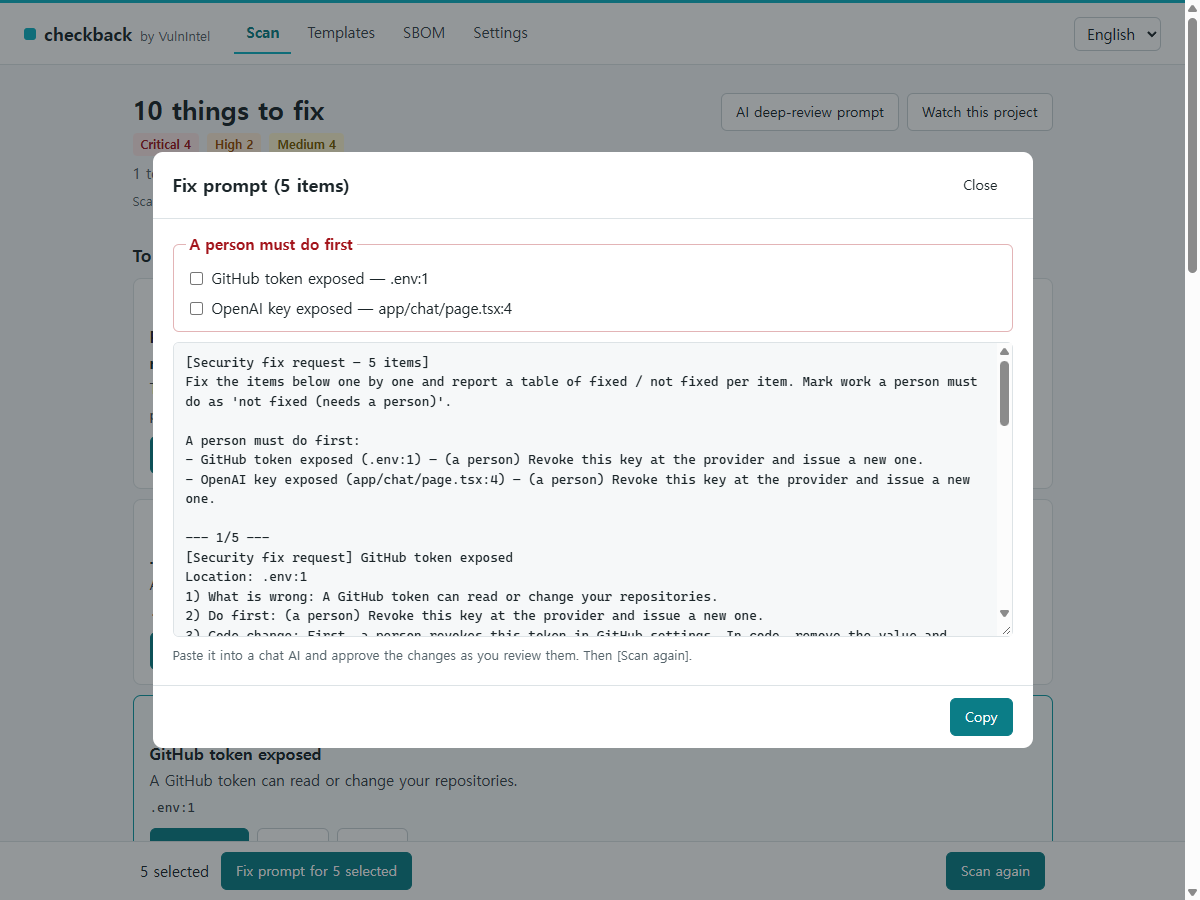
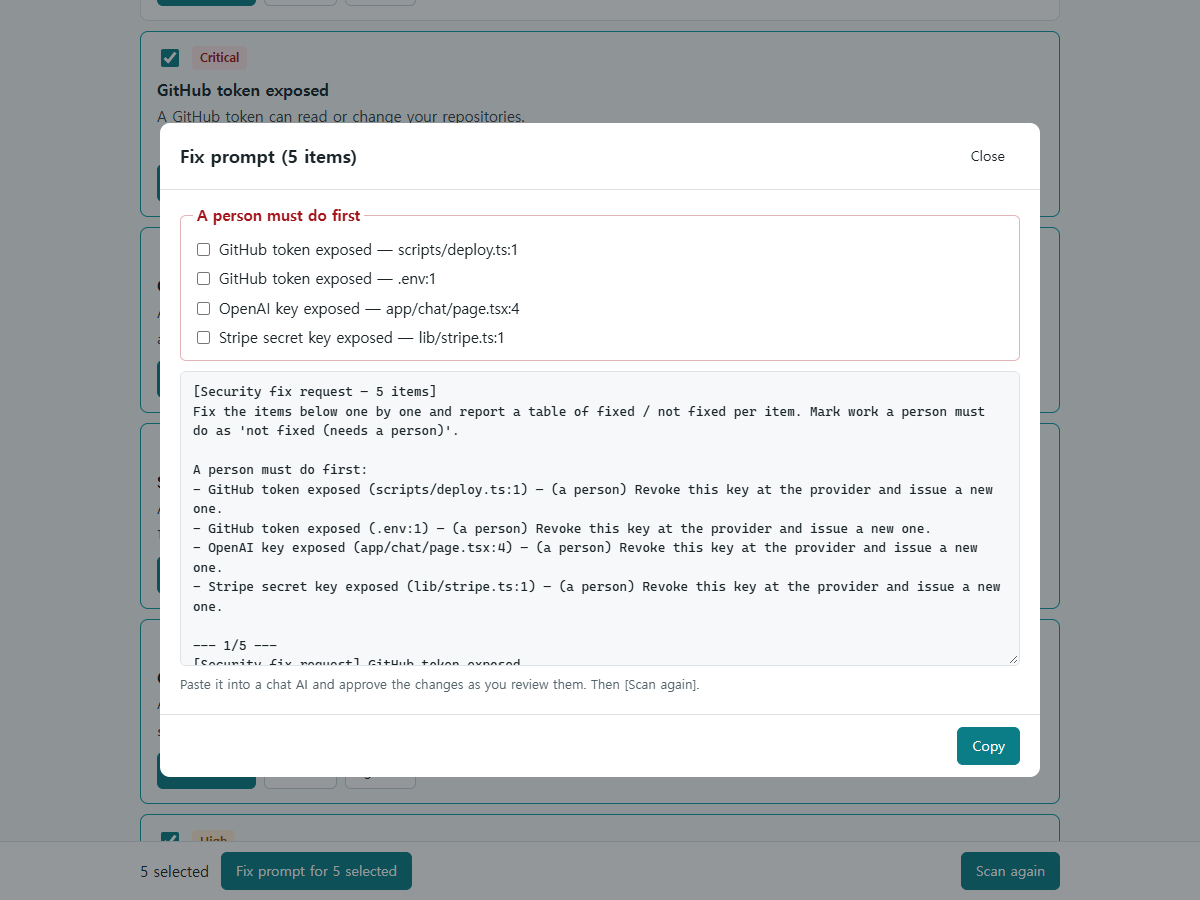
docs: retake README demo images on the final GUI
Scan results no longer show the lookup-timeout banner (cache warmed first),
fix prompt shows four keys to revoke, and the re-check image now has a dark
variant served via <picture> prefers-color-scheme.

Changed region(s): [[0.0, 0.0, 1.0, 1.0], [0.7708, 0.9333, 0.8942, 0.9956], [0.7092, 0.6844, 0.74, 0.7156]]

diff --git a/README.md b/README.md
@@ -17,7 +17,7 @@ still there.
 
 Your code never leaves your machine. No account needed.
 
-![checkback results screen: 10 things to fix, critical and high badges, a vulnerable Next.js version with KEV priority and EPSS, a committed .env file and an exposed GitHub token](docs/assets/scan-results.png)
+![checkback results screen: 7 things to fix (6 critical, 1 high). The top card is Next.js 14.1.0 with known vulnerabilities, priority L5 Urgent and EPSS 99.2%, upgrade to 15.5.28 or later; then a .env file committed to git and an exposed GitHub token](docs/assets/scan-results.png)
 
 <sub>Demo project with fake keys. Vulnerability data from OSV.dev, priority from VulnIntel.</sub>
 
@@ -104,12 +104,15 @@ flowchart LR
 section per finding with `file:line`, what is wrong and how to fix it. They never contain the secret
 value and never tell the AI to install a package that is not already in your project.
 
-![Fix prompt dialog for 5 selected findings: a "person must do first" checklist for two exposed keys, then the text to paste into an AI](docs/assets/fix-prompt.png)
+![Fix prompt dialog for 5 selected findings: a "person must do first" checklist to revoke four exposed keys (two GitHub tokens, an OpenAI key, a Stripe key), then the text to paste into an AI](docs/assets/fix-prompt.png)
 
 **Scan again** compares with the moment you copied the instructions. In the demo below, the OpenAI
 key was moved into `.env.local` instead of being revoked, so checkback reports the same key:
 
-![Re-check result: an OpenAI key card marked "Same key remains" at .env.local:1, other cards marked "Still there"](docs/assets/recheck.png)
+<picture>
+  <source media="(prefers-color-scheme: dark)" srcset="docs/assets/recheck-dark.png">
+  <img alt="Re-check result: summary bar Resolved 3, Still there 5, New 0, Needs a look 0, compared with the fix request. Of the 5 requested items, a GitHub token in .env:1 is still there and an OpenAI key is marked &quot;Same key remains&quot; at .env.local:1" src="docs/assets/recheck.png">
+</picture>
 
 ## What it does and does not do
 
